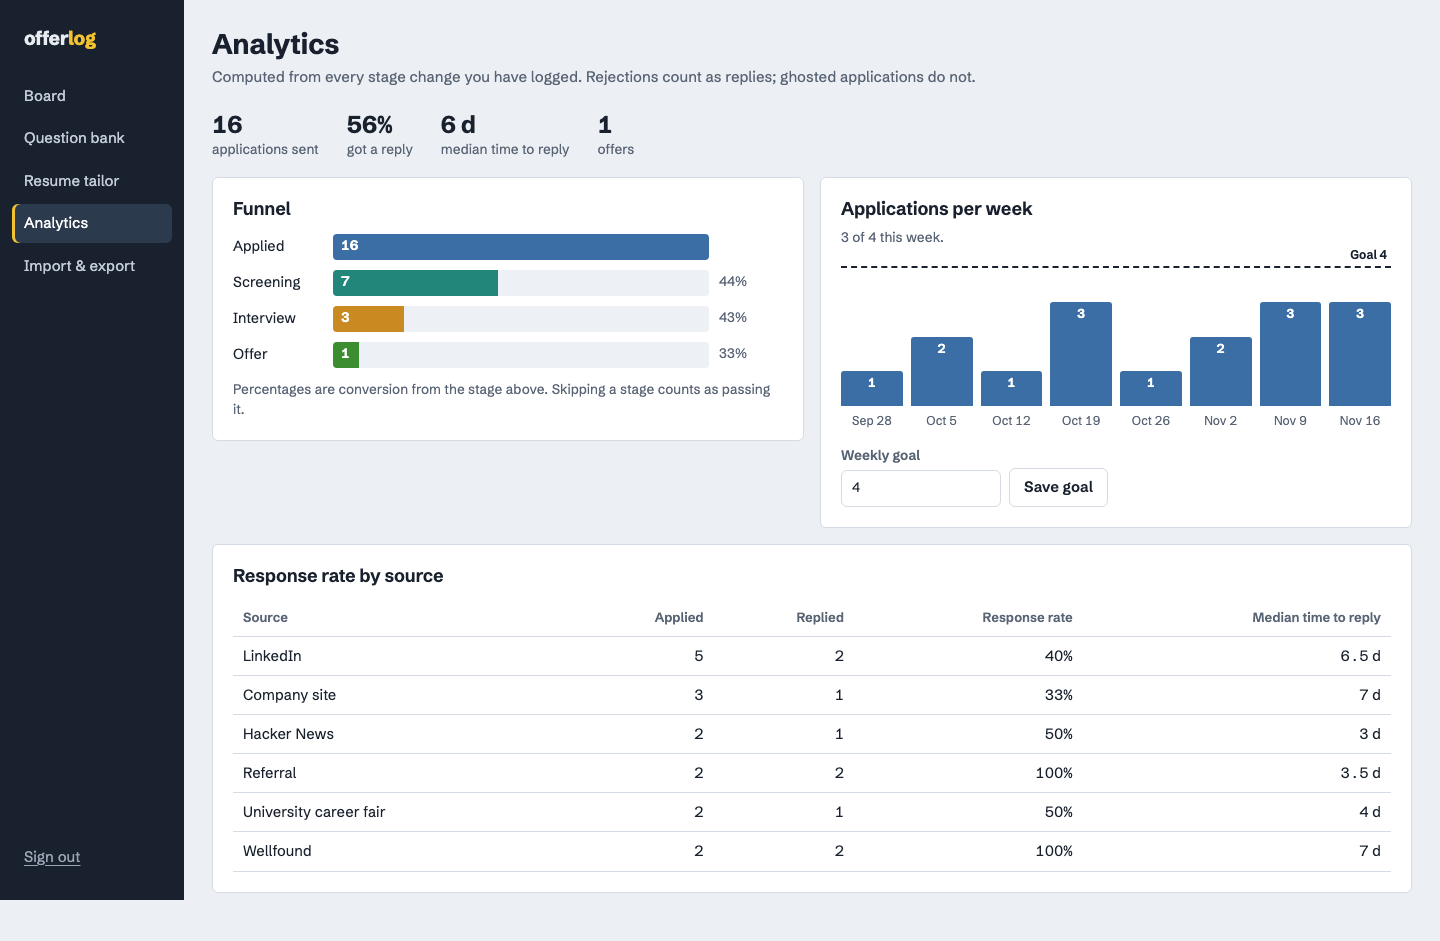
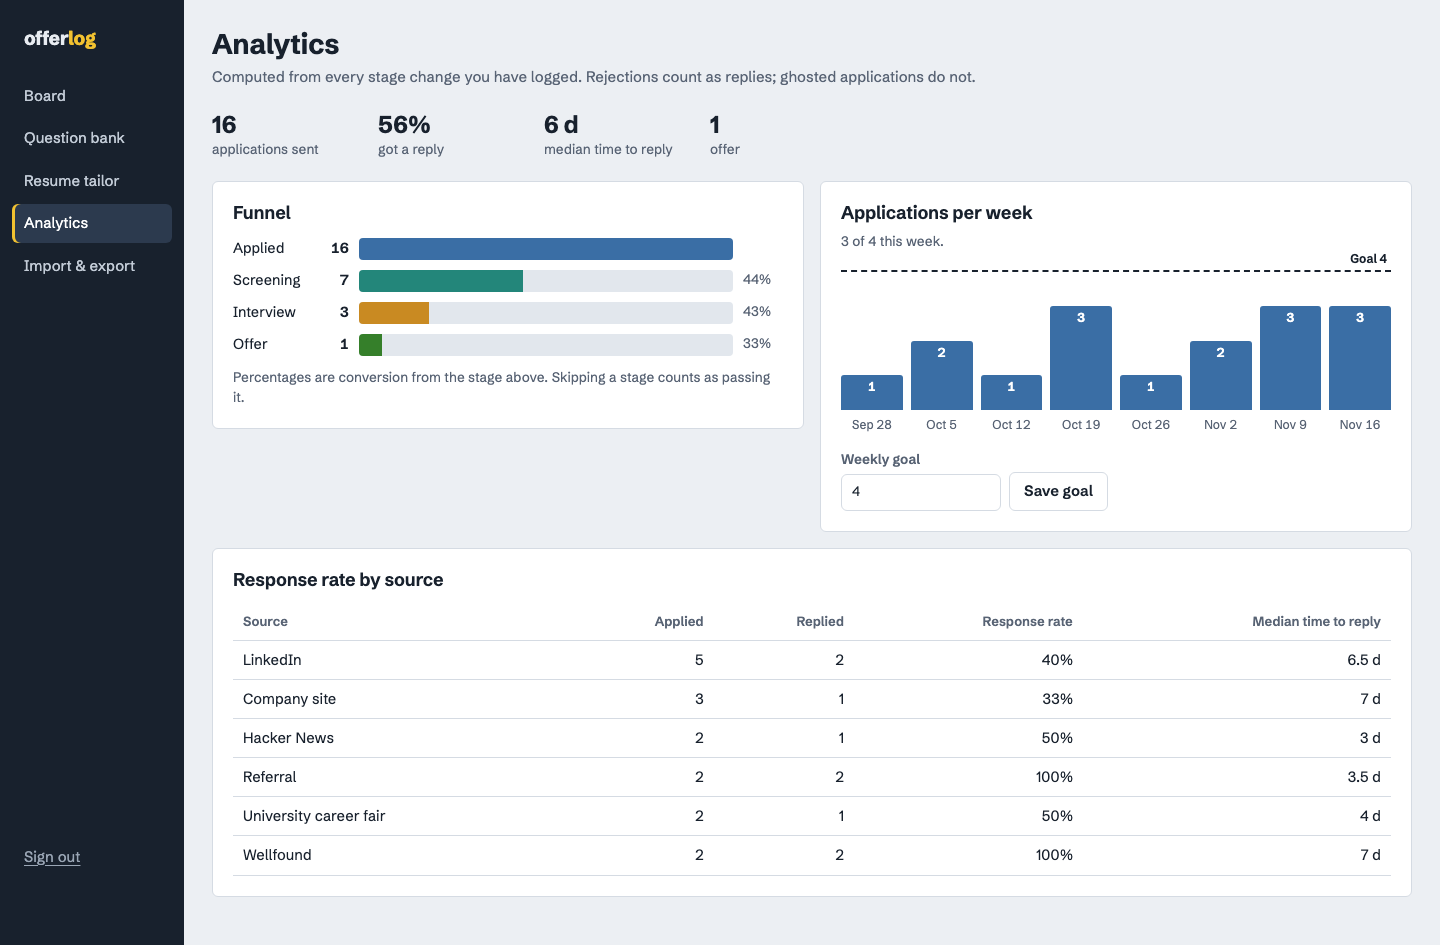
Refresh screenshots with dark and phone views, document the design pass

diff --git a/src/app/globals.css b/src/app/globals.css
@@ -158,6 +158,8 @@ p {
   display: grid;
   grid-template-columns: 184px minmax(0, 1fr);
   min-height: 100vh;
+  /* Paints the sidebar column below the sticky, viewport-high sidebar on long pages. */
+  background: linear-gradient(90deg, var(--chrome) 184px, transparent 0);
 }
 
 .sidebar {
@@ -249,6 +251,7 @@ main {
 @media (max-width: 760px) {
   .shell {
     grid-template-columns: 1fr;
+    background: none;
   }
   .sidebar {
     position: static;

diff --git a/README.md b/README.md
@@ -47,17 +47,22 @@ Behind a reverse proxy, forward the original `Host` (or `X-Forwarded-Host`) and 
 
 - **Board** with seven stages: wishlist, applied, screening, interview, offer, rejected, ghosted. Drag cards between columns, or use the stage menu on each card (works with keyboard and touch), and filter the board by company, role, place or source. An **Up next** strip lists next steps by due date and flags overdue ones.
 - **Applications** with company, role, posting link, salary range and currency, location and work mode (onsite, hybrid, remote), source, job description, and a next step with a due date.
-- **Timeline** per application: every stage change is recorded automatically, alongside your own dated notes. Marking a next step done logs it to the timeline.
-- **Contacts** per application (name, title, email, profile link).
+- **Timeline** per application: every stage change is recorded automatically, alongside your own dated notes. Marking a next step done logs it to the timeline. Notes can be edited in place and keep their original date.
+- **Contacts** per application (name, title, email, profile link), editable in place.
 - **Interview prep** per stage (screening, interview, offer), with the matching questions from your **question bank** listed next to your notes.
 - **Resume tailor**: paste a job description (or load one saved on an application) and your resume as plain text or Markdown. A local, deterministic report shows which skills and tools from the posting your resume covers or misses, seniority words on both sides, and repeated posting words you never use. With `ANTHROPIC_API_KEY` set, you can also ask Claude to rewrite specific bullet points toward the posting; it is told not to invent experience.
 - **Analytics**: funnel with stage-to-stage conversion, response rate and median time to reply per source, and applications per week against a weekly goal you set.
 - **Import and export**: full JSON backup and restore, and CSV for spreadsheets. Imports are validated and all-or-nothing.
 - **Single-user login** with a hashed password, an HttpOnly session cookie and rate-limited sign-in.
+- **Light and dark theme** following your system setting, a phone layout where board columns snap one at a time, keyboard access throughout (skip link, visible focus, a stage menu on every card), and no animation when reduced motion is requested.
 
 | Application detail | Resume tailor | Analytics |
 | --- | --- | --- |
 | ![Application detail with timeline, contacts and prep](docs/screenshots/application.png) | ![Keyword gap report](docs/screenshots/tailor.png) | ![Funnel, weekly goal and sources](docs/screenshots/analytics.png) |
+
+| Dark theme, editing a note | Board on a phone | Analytics on a phone, dark |
+| --- | --- | --- |
+| ![Application detail in the dark theme with a note's edit panel open](docs/screenshots/application-dark.png) | ![The board at 390px wide, one column in view](docs/screenshots/mobile-board.png) | ![Analytics at 390px wide in the dark theme](docs/screenshots/mobile-analytics-dark.png) |
 
 ## How it works
 
@@ -79,15 +84,16 @@ npm run db:generate  # after changing src/db/schema.ts
 
 The Playwright test uses Chromium; install it once with `npx playwright install chromium`.
 
+README screenshots come from a running, seeded instance: `node scripts/screenshots.mjs http://localhost:4220 <password> docs/screenshots`.
+
 ## Roadmap
 
 Not built yet:
 
 - Saved filters and sorting options on the board (today: a quick text filter).
 - Calendar export (ICS) for next-step reminders and interviews.
-- Editing a saved contact or note in place (today: delete and re-add).
 - A user-editable keyword vocabulary for the resume tailor.
-- Dark theme.
+- A manual light/dark switch (today the theme follows the system setting).
 - Multiple users.
 
 ## License

diff --git a/CHANGELOG.md b/CHANGELOG.md
@@ -4,7 +4,34 @@ All notable changes to this project are documented here. The format follows [Kee
 
 ## [Unreleased]
 
-First-run review: a fresh clone was set up by following the README literally, and the code was then reviewed.
+Latest, design and UX pass: every page was checked in real screenshots at 1440px and 390px, in light and dark, and with an axe-core WCAG 2.2 AA scan (no violations left on any page in either theme).
+
+### Added
+
+- Dark theme that follows the system setting. All colours are tokens on `:root` in `src/app/globals.css`, redefined once under `prefers-color-scheme: dark`.
+- Edit notes, prep notes and contacts in place. Each has an "Edit" panel with Save and Delete (`updateNote`, `updateContact` actions). A note keeps its date and stage when edited.
+- Form buttons on the application page disable themselves while the server action runs (`SubmitButton`), so a slow save cannot be sent twice.
+- Skip link, a title per page ("Board – offerlog"), an in-shell error page with a retry button, and a not-found page for deleted applications.
+- The smoke test edits a note and a contact; README shows dark and phone screenshots, all regenerated by `scripts/screenshots.mjs`.
+
+### Fixed
+
+- On phones the board showed seven 158px slivers; columns now take 78% of the width and snap one at a time.
+- Funnel counts were white on the bar colour, which failed contrast on amber. They now sit beside the bar.
+- Tabular figures split "6.5 d" into "6 . 5 d" in this typeface; they are now only used for bare integers.
+- "1 offers" and "Imported 1 applications." are pluralised correctly.
+- Prep notes had a stray list indent; the tailor's two textareas did not line up; empty analytics drew coloured ticks for zero bars and gave no hint; the empty board showed a useless filter; the sidebar stopped short on long pages.
+- Light-theme red links on grey panels and the dark-theme "Offer" pill were under 4.5:1 contrast.
+
+### Notes for the next agent
+
+- New colours go in as tokens in both the light block and the dark block; do not hard-code hex values in components. Stage colours are shared by both themes on purpose.
+- Phone overrides for components live in the last `@media (max-width: 760px)` block of `globals.css`, because an earlier media query loses to base rules declared after it.
+- Edit panels are `<details>` keyed by their saved content, so a successful save remounts them closed without client state.
+- Codex second review was tried twice this round and hit its usage limit both times.
+- The AI rewrite is still only tested with a mocked client; no key was available.
+
+Earlier, first-run review: a fresh clone was set up by following the README literally, and the code was then reviewed.
 
 ### Fixed
 
